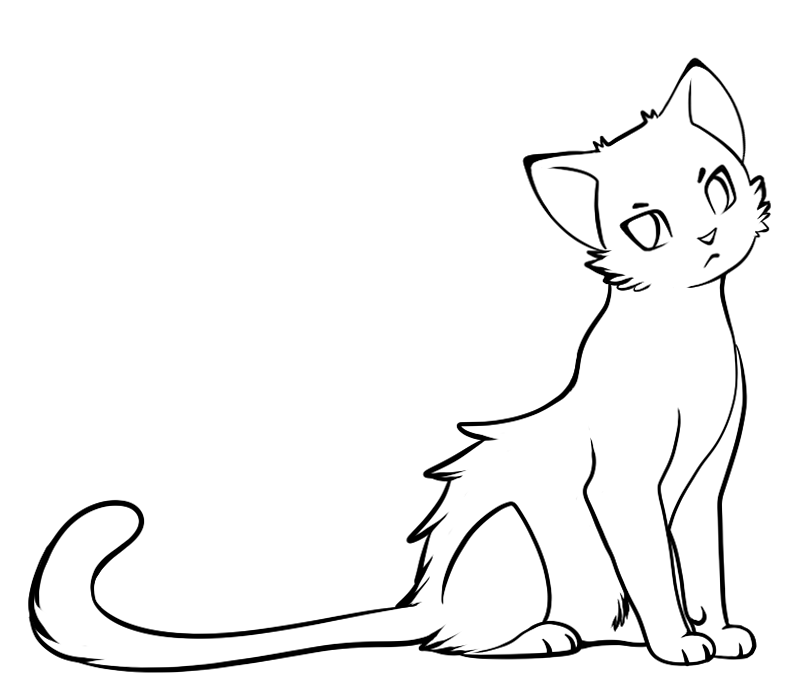
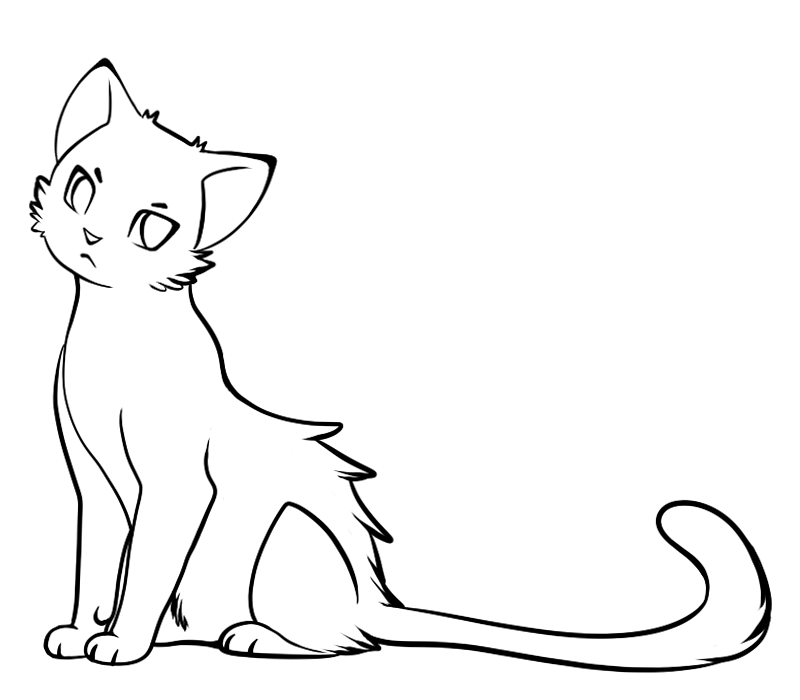
mirror murzik

diff --git a/index.html b/index.html
@@ -11,7 +11,7 @@
          position: absolute;
          bottom: 25px;
          right: 25px;
-         width: 250px;
+         width: 40%;
          transform: scaleX(-1);
          }
          .cat:hover {
@@ -22,7 +22,7 @@
          opacity: 0;
          transition: 0.5s opacity;
          text-align: center;
-         font-size:32px;
+         font-size:64px;
          }
          p {
          text-align: center;
